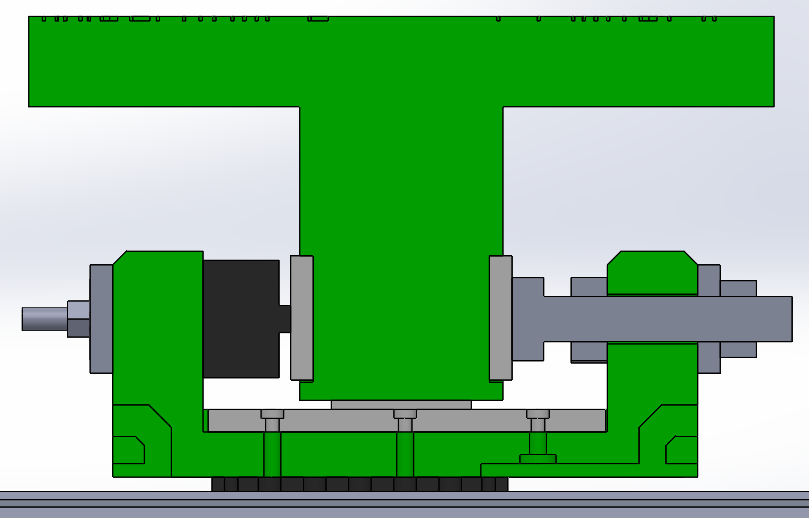
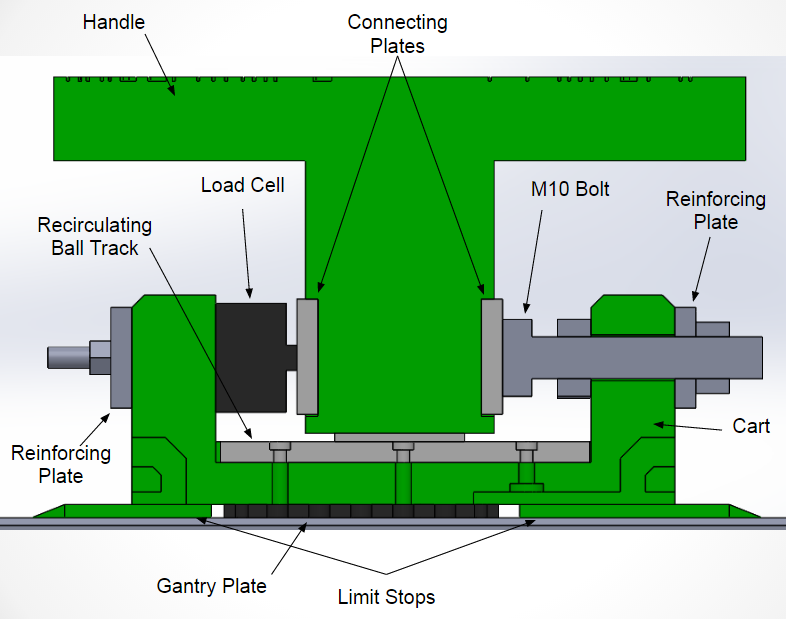
edit cross section image

diff --git a/Design_Mechanical.tex b/Design_Mechanical.tex
@@ -3,18 +3,20 @@ After completing the dynamic modeling and simulation, the mechanical design was 
 
 \begin{figure}[H]
 	\centering
-	\includegraphics[width=0.85\columnwidth]{Images/Isometric_Full_View}
+	\includegraphics[width=1\columnwidth]{Images/Isometric_Full_View}
 	\caption{Isometric CAD Model}
 	\label{fig:Isometric_Full_View}
 \end{figure}
+
 \begin{figure}[H]
 	\begin{center}
-		\includegraphics[width=0.85\columnwidth]{Images/Iso_Real_Full}
+		\includegraphics[width=1\columnwidth]{Images/Iso_Real_Full}
 		\caption{Actual Prototype}
 		\label{fig:Iso_Real_Full}
 	\end{center}
 \end{figure}
-On the cart, there is a handle which is preloaded by an M10 Bolt onto a button load cell. Both the cart and handle are 3D printed. The user will apply a force to the handle sensed by the load cell which will be the input for our computer model and the cart should move accordingly based on the reference model. The challenge is to ensure that the force from the user is all transmitted to the load cell for an accurate input to the system model. One can imagine that as the handle is preloaded, there will more friction to overcome.
+
+On the cart, there is a handle which is preloaded by an M10 Bolt onto a button load cell. Limit stops were hot glued to the bottom of the cart to hit the limit switches at the ends of the track which would turn off the system if anything went wrong. The cart, handle, and limit stops were 3D printed. The user will apply a force to the handle sensed by the load cell which will be the input for our computer model and the cart should move accordingly based on the reference model. The challenge is to ensure that the force from the user is all transmitted to the load cell for an accurate input to the system model. One can imagine that as the handle is preloaded, there will more friction to overcome.
 
 The first step to tackle this problem is to use small aluminum connecting plates on both sides of the handle that contact the load cell and M10 preload bolt. Since the handle was 3D printed PLA, the pressure from small contacting point of the load cell and the M10 bolt would only deform the soft PLA material. Adding the aluminum connecting plates allows for a stiffer area of contact and a consistent force to be applied to the load cell.
 
@@ -27,7 +29,6 @@ The first step to tackle this problem is to use small aluminum connecting plates
 
 Taking a closer look, the handle is screwed on to a recirculating ball track as shown in Figure \ref{fig:Recirculating_Ball_Track}. The recirculating ball track is a key component to the mechanical design. Since the slider moves purely in a linear motion along the track, it minimizes friction and ensures that any force, even a torque, applied to the handle is completely transmitted to the load cell. Figure \ref{fig:Ball_Track_Cross_Section} shows a cross section of the handle and how it connects to the load cell, M10 preload bolt, ball track, and the rest of the cart. A labeled figure of the entire system is shown in Figure \ref{fig:Annotated_Front}.
 
-
 \begin{figure}[H]
 \centering
 \includegraphics[width=1\columnwidth]{Images/Ball_Track_Cross_Section}
@@ -35,16 +36,19 @@ Taking a closer look, the handle is screwed on to a recirculating ball track as 
 \label{fig:Ball_Track_Cross_Section}
 \end{figure}
 
-When designing the cart, PLA creep stiffness was not taken into account. Due to the rather elastic PLA material, a constant decrease in the preload would occur. This caused inconsistent force readings from the load cell. To counter this problem, two aluminum reinforcing plates were machined and held by threaded rods shown in Figure \ref{fig:Annotated_Iso}. This helped with the creep and overall cart stiffness, which gave much more accurate force readings from the load cell.
 \begin{figure}[H]
 	\centering
 	\includegraphics[width=1\linewidth]{Images/Annotated_Front}
-	\caption{Labeled Front View}
+	\caption{Front View}
 	\label{fig:Annotated_Front}
 \end{figure}
+When designing the cart, PLA creep stiffness was not taken into account. Due to the rather elastic PLA material, a constant decrease in the preload would occur. This caused inconsistent force readings from the load cell. To counter this problem, two aluminum reinforcing plates were machined and held by threaded rods shown in Figure \ref{fig:Annotated_Iso}. This helped with the creep and overall cart stiffness, which gave much more accurate force readings from the load cell.
+
 \begin{figure}[H]	
 \centering
 \includegraphics[width=1\linewidth]{Images/Annotated_Iso}
-\caption{Labeled Isometric View}
+\caption{Detailed Isometric View}
 \label{fig:Annotated_Iso}
 \end{figure}
+
+The cart and handle were 3D printed because it allowed for quick changes and variation to the design. After encountering the PLA creep problem, a future improvement would be to make the cart and handle out of aluminum. Even though that would increase costs, material, and the complexity of the design, that would ultimately eliminate any kind of creeping and preloading inconsistencies. 
